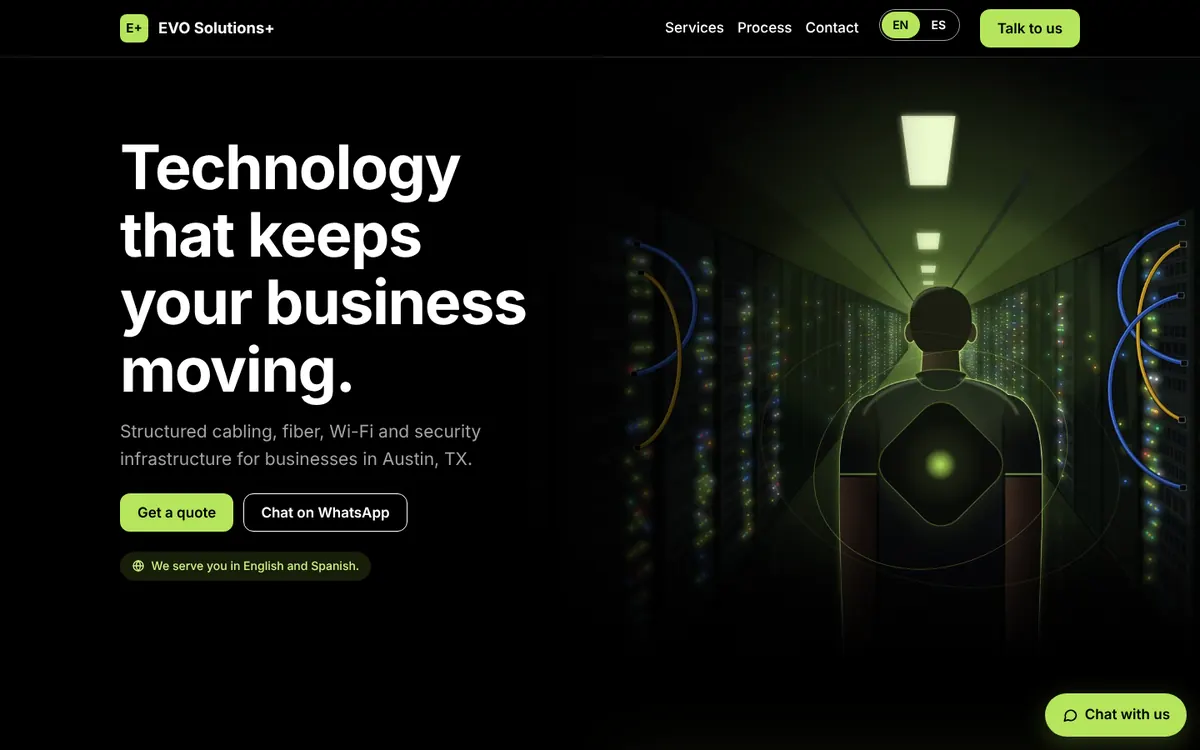
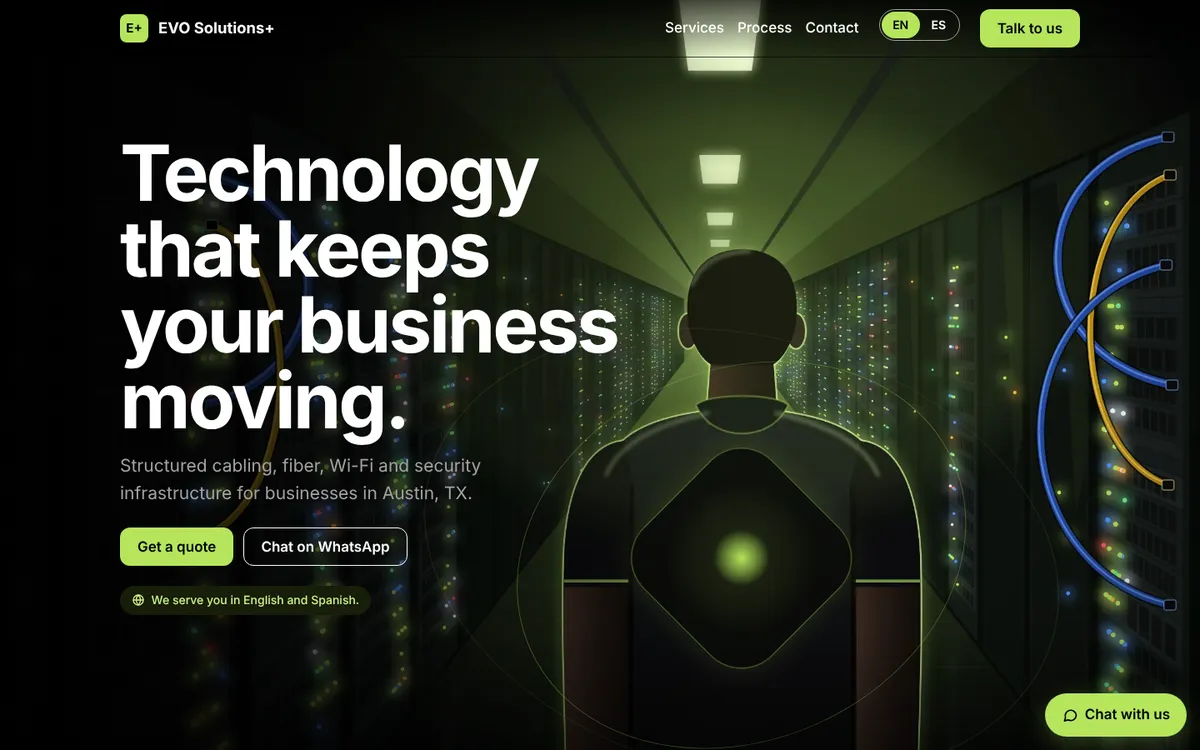
Proyectos: EVO Solutions+ cinematográfica, captura y descripción nuevas
Claude-Session: https://claude.ai/code/session_01QtU3EQZjsv2b4KSEUHPnCc

diff --git a/main.js b/main.js
@@ -26,7 +26,7 @@
     pIgnis: 'La web de mi estudio de webs cinematográficas: partículas de brasa, un proceso contado con el scroll y Brasa, un bot que manda los contactos directo a WhatsApp.',
     pHugos: 'Una cafetería argentina contada en una sola toma: video con IA que avanza cuadro a cuadro con el scroll y una carta que se abre en abanico.',
     pFogon: 'Del fuego a la mesa: un video que avanza con el scroll y platos que se arman solos, ingrediente por ingrediente.',
-    pEvo: 'Cableado, fibra y seguridad explicados claro, con todo el contacto directo a WhatsApp.',
+    pEvo: 'Sigue la señal: un pulso de luz recorre el cable por cada servicio, con productos delante de palabras gigantes y un bot que deriva a WhatsApp.',
     pBalance: 'Una marca deportiva premium en un solo scroll cinematográfico: entrenamiento, nutrición y suplementos, con el método en paneles horizontales y una tienda que completa el formulario de contacto.',
     pFin: 'Una app de finanzas personales local-first: demo en vivo con seis meses de datos, flujo de caja y gráficos por categoría, presupuestos editables y exportar a CSV. EN/ES, claro y oscuro.',
     stackTitle: 'Herramientas con las que trabajo',

diff --git a/index.html b/index.html
@@ -138,8 +138,8 @@
               <h3>EVO Solutions+</h3>
               <a href="https://fenix-emanuel.github.io/evo-landing/" target="_blank" rel="noopener" data-i18n="live">View live ↗</a>
             </div>
-            <p data-i18n="pEvo">Cabling, fiber and security explained clearly, with every contact going straight to WhatsApp.</p>
-            <ul class="tags"><li>Landing</li><li data-i18n="bilingual">Bilingual</li><li>WhatsApp</li></ul>
+            <p data-i18n="pEvo">Follow the signal: a pulse of light travels a cable through each service, with products in front of giant words and a WhatsApp chat bot.</p>
+            <ul class="tags"><li>GSAP</li><li>Canvas</li><li data-i18n="bilingual">Bilingual</li></ul>
           </article>
           <article class="proj">
             <a class="proj__frame" href="https://fenix-emanuel.github.io/entrega-2/" target="_blank" rel="noopener">
